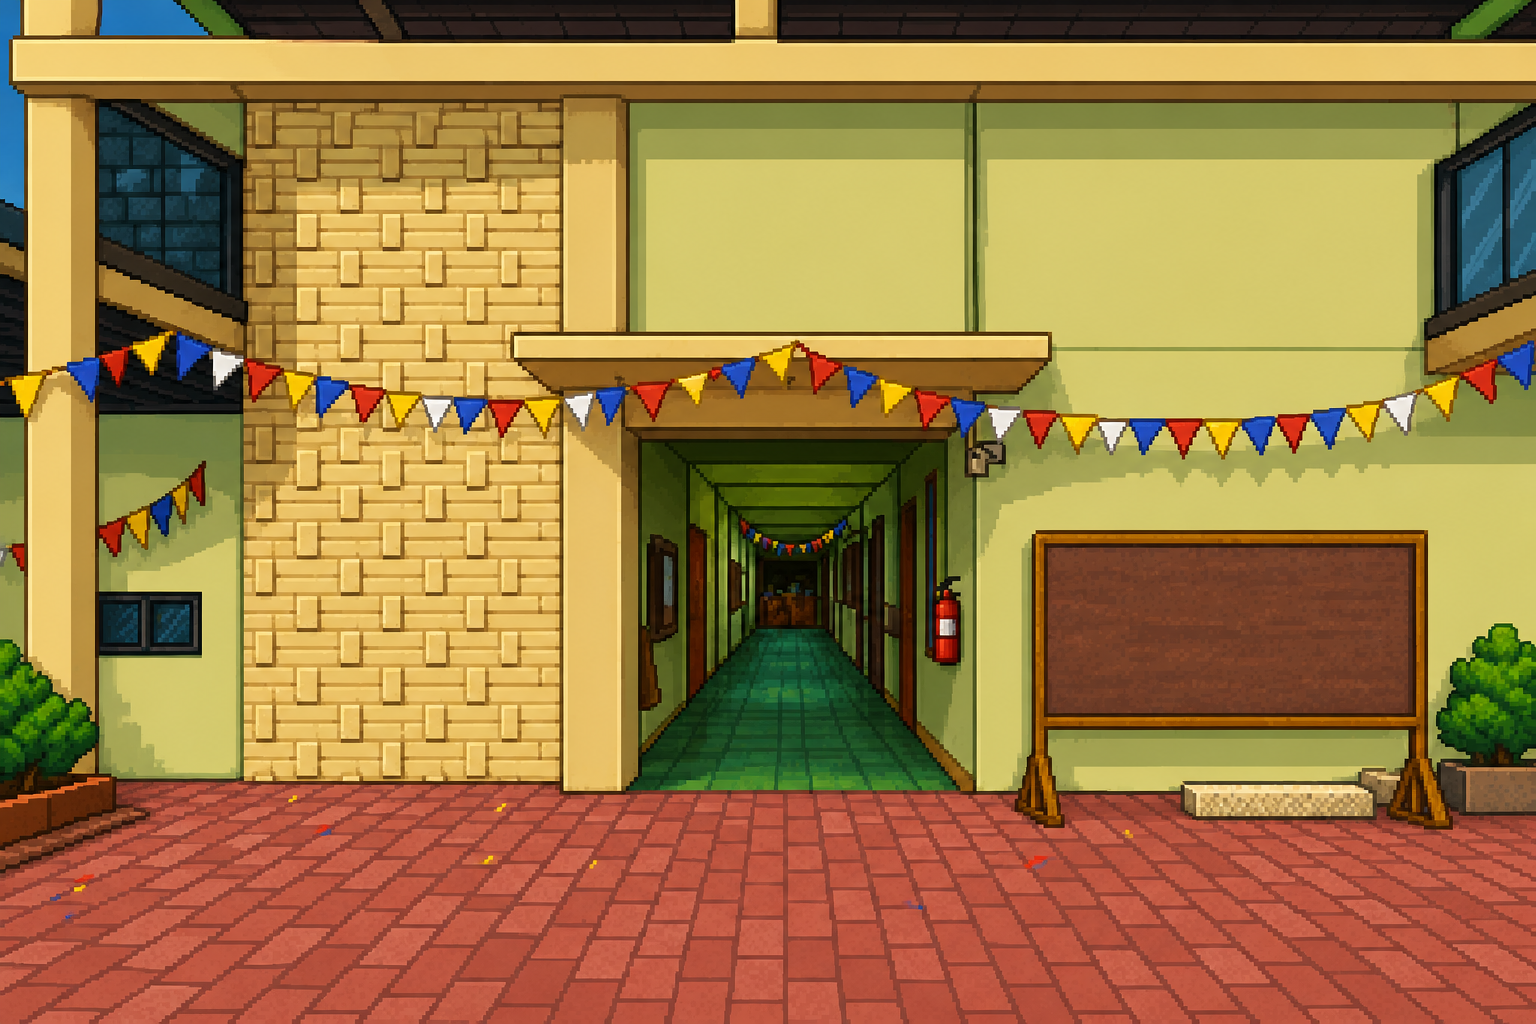
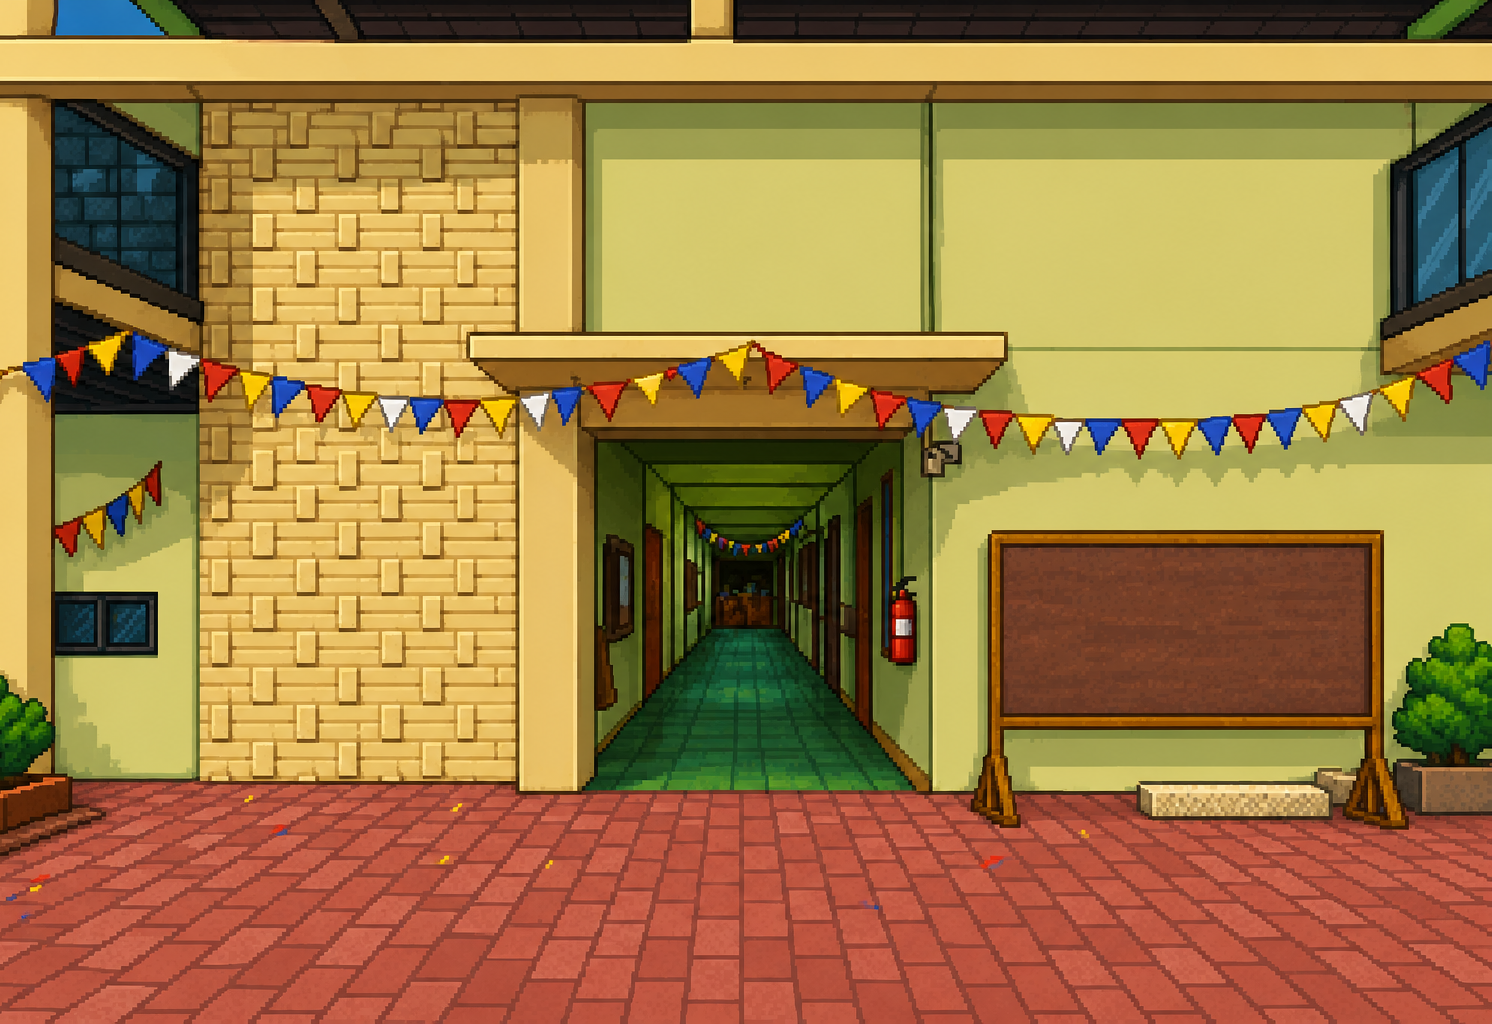
feat: refine home menu layout

diff --git a/pusa_run/app.py b/pusa_run/app.py
@@ -170,9 +170,9 @@ class GameApp:
 
     def _menu_buttons(self) -> list[Button]:
         return [
-            Button("PLAY", pygame.Rect(490, 352, 300, 96), "play"),
-            Button("SETTINGS", pygame.Rect(500, 463, 280, 94), "settings"),
-            Button("EXIT", pygame.Rect(500, 573, 280, 94), "exit"),
+            Button("PLAY", pygame.Rect(490, 510, 300, 96), "play"),
+            Button("EXIT", pygame.Rect(18, 18, 76, 76), "exit"),
+            Button("SETTINGS", pygame.Rect(18, 102, 76, 76), "settings"),
         ]
 
     def _update_menu(
@@ -483,7 +483,7 @@ class GameApp:
             True,
             (61, 38, 18),
         )
-        tagline_box = tagline.get_rect(center=(640, 294)).inflate(44, 16)
+        tagline_box = tagline.get_rect(center=(640, 650)).inflate(44, 16)
         pygame.draw.rect(
             self.canvas,
             (222, 179, 90),
@@ -525,8 +525,21 @@ class GameApp:
         button: Button,
         mouse: tuple[int, int],
     ) -> None:
+        hovered = button.rect.collidepoint(mouse)
+        pressed = hovered and pygame.mouse.get_pressed(num_buttons=3)[0]
         image = self.assets.menu_buttons[button.action]["default"]
-        self.canvas.blit(image, image.get_rect(center=button.rect.center))
+        center = button.rect.center
+
+        if pressed:
+            image = pygame.transform.scale_by(image, 0.97)
+            image.fill((18, 18, 18, 0), special_flags=pygame.BLEND_RGB_SUB)
+            center = (center[0], center[1] + 3)
+        elif hovered:
+            image = pygame.transform.scale_by(image, 1.04)
+            image.fill((16, 16, 16, 0), special_flags=pygame.BLEND_RGB_ADD)
+            center = (center[0], center[1] - 1)
+
+        self.canvas.blit(image, image.get_rect(center=center))
 
     def _draw_high_score_panel(self) -> None:
         panel = pygame.Rect(1005, 24, 245, 96)

diff --git a/pusa_run/assets.py b/pusa_run/assets.py
@@ -119,8 +119,8 @@ class GameAssets:
         self.menu_buttons: dict[str, dict[str, pygame.Surface]] = {}
         target_widths = {
             "play": 270,
-            "settings": 240,
-            "exit": 240,
+            "settings": 210,
+            "exit": 210,
         }
         for action in ("play", "settings", "exit"):
             source_states = {
@@ -138,3 +138,12 @@ class GameAssets:
                 state: scale_by(image, scale)
                 for state, image in source_states.items()
             }
+
+        self.menu_buttons["settings"]["default"] = scale_to_height(
+            _crop_alpha(_load_button("settings_icon_default.png")),
+            64,
+        )
+        self.menu_buttons["exit"]["default"] = scale_to_height(
+            _crop_alpha(_load_button("exit_icon_default.png")),
+            64,
+        )
